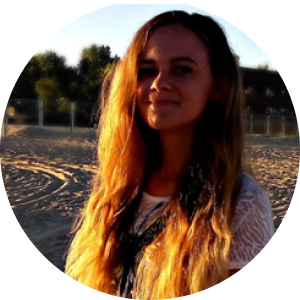
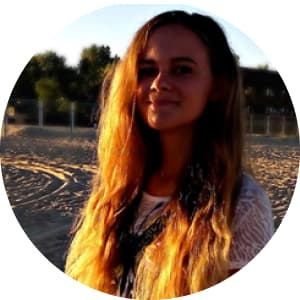
Fix slider

diff --git a/src/partials/reviews.html b/src/partials/reviews.html
@@ -4,7 +4,7 @@
     <div class="reviews__slider">
       <div class="slider">
         <div class="slider__photo">
-          <img srcset="./images/reviews-tonya.jpg 1x, ./images/reviews-tonya@2x.jpg 2x" class="slider__img" src="./images/reviews-tonya.jpg" alt="Тоня Кучеровская">
+          <img srcset="./images/reviews-tonya.jpg 1x, ./images/reviews-tonya@2x.jpg 2x" class="slider__img" src="./images/reviews-tonya.jpg" alt="Тоня Кучеровская" width="150px" height="150px">
           <ul class="slider-list">
             <li class="slider-item">
               <a href="https://www.facebook.com/" class="slider__link">
@@ -45,7 +45,7 @@
       </div>
       <div class="slider">
         <div class="slider__photo">
-          <img srcset="./images/reviews-tonya.jpg 1x, ./images/reviews-tonya@2x.jpg 2x" class="slider__img" src="./images/reviews-tonya.jpg" alt="Тоня Кучеровская">
+          <img srcset="./images/reviews-tonya.jpg 1x, ./images/reviews-tonya@2x.jpg 2x" class="slider__img" src="./images/reviews-tonya.jpg" alt="Тоня Кучеровская" width="150px" height="150px">
           <ul class="slider-list">
             <li class="slider-item">
               <a href="https://www.facebook.com/" class="slider__link">
@@ -86,7 +86,7 @@
       </div>
       <div class="slider">
         <div class="slider__photo">
-          <img srcset="./images/reviews-tonya.jpg 1x, ./images/reviews-tonya@2x.jpg 2x" class="slider__img" src="./images/reviews-tonya.jpg" alt="Тоня Кучеровская">
+          <img srcset="./images/reviews-tonya.jpg 1x, ./images/reviews-tonya@2x.jpg 2x" class="slider__img" src="./images/reviews-tonya.jpg" alt="Тоня Кучеровская" width="150px" height="150px">
           <ul class="slider-list">
             <li class="slider-item">
               <a href="https://www.facebook.com/" class="slider__link">
